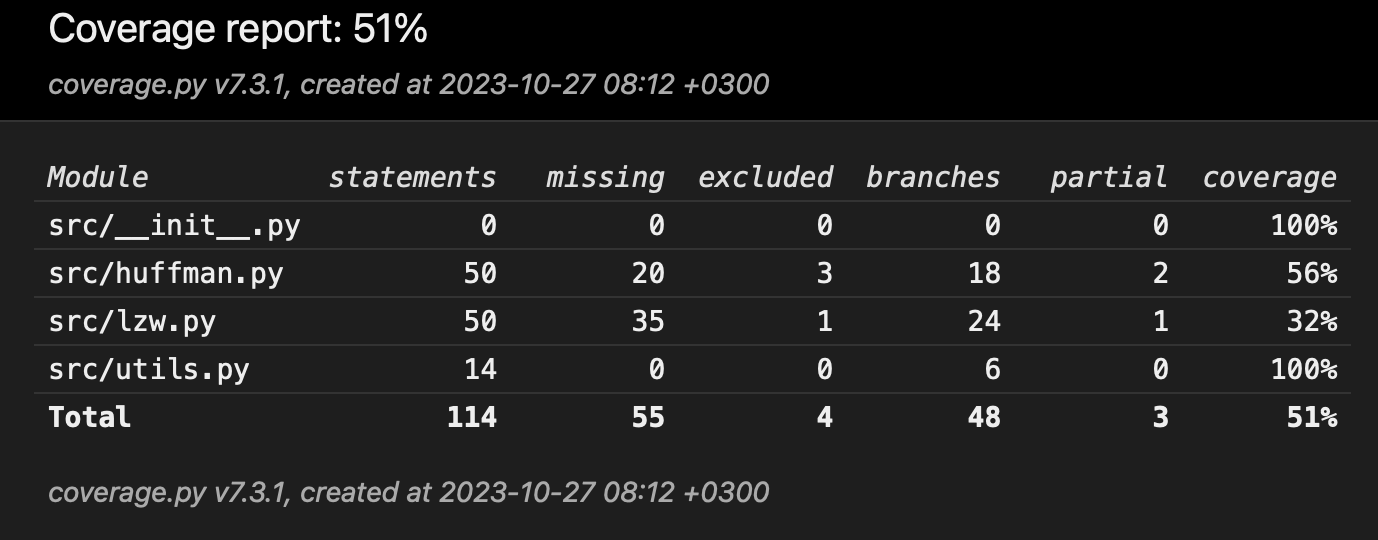
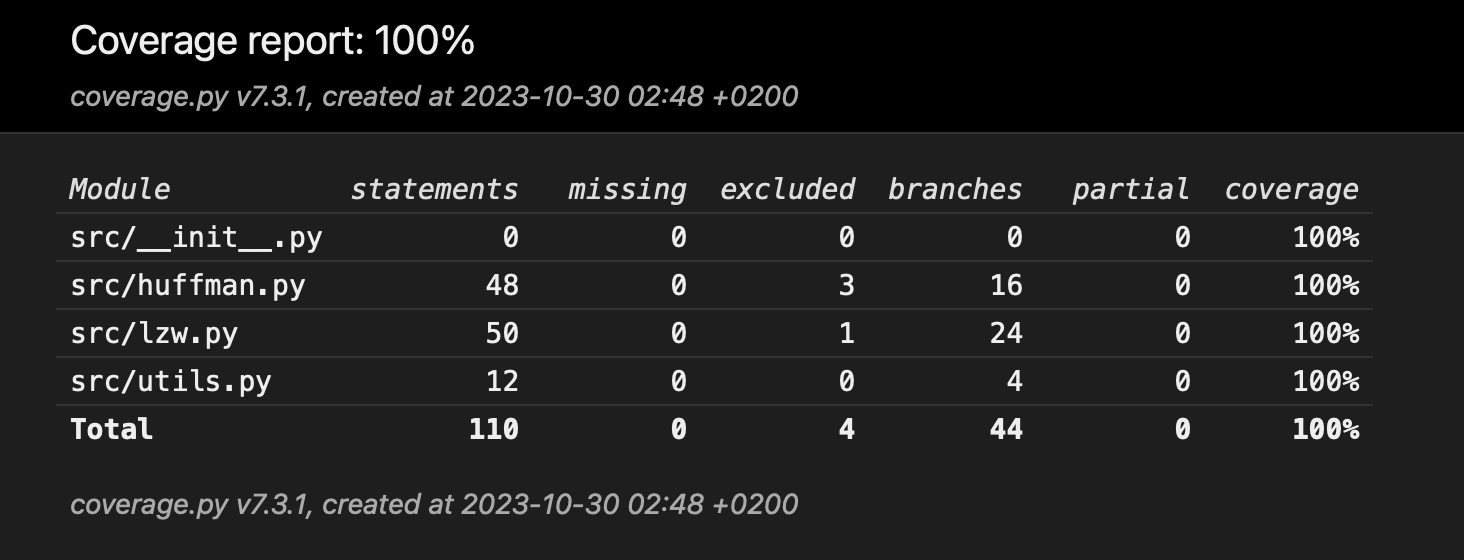
Remove coverage from flask (clitching), put test reports to testing.md

diff --git a/templates/index.html b/templates/index.html
@@ -29,7 +29,7 @@
             Huffman Integrity: {{ 'Ok' if results.huffman_integrity else 'Fail' }} <br>
             LZW Integrity: {{ 'Ok' if results.lzw_integrity else 'Fail' }} <br>
             <br>
-            <b>Efficiency</b> <br>
+            <b>Efficiency (percentage by which the original size has been reduced after compression)</b> <br>
             Huffman Efficiency: {{ results.huffman_efficiency }} <br>
             LZW Efficiency: {{ results.lzw_efficiency }} <br>
             <b>File Sizes (bytes)</b> <br>
@@ -39,8 +39,5 @@
         </div>
     {% endif %}
     <br>
-    <div>
-        <iframe src="/coverage" width="400px""></iframe>
-    </div>
 </body>
 </html>

diff --git a/routes.py b/routes.py
@@ -1,10 +1,8 @@
 import os
-import unittest
 from os.path import getsize
 
 from flask import (
-    render_template, request, session, redirect,
-    url_for, send_from_directory
+    render_template, request, session, redirect, url_for
 )
 
 from src.huffman import huffman_compress, huffman_decompress
@@ -14,7 +12,7 @@ from src.utils import calculate_efficiency
 ASSETS_FOLDER = 'assets'
 
 
-def register_routes(app, cov):
+def register_routes(app):
     app.config['ASSETS_FOLDER'] = ASSETS_FOLDER
 
     @app.route('/')
@@ -101,17 +99,3 @@ def register_routes(app, cov):
                 error = f"Error occurred: {str(e)}"
 
         return render_template('index.html', error=error, results=results)
-
-    @app.route('/coverage')
-    def test_coverage_route():
-        # Run unit tests
-        test_loader = unittest.TestLoader()
-        test_suite = test_loader.discover('tests')
-        test_runner = unittest.TextTestRunner()
-        test_runner.run(test_suite)
-
-        # Generate test coverage report
-        cov.stop()
-        cov.save()
-        cov.html_report()
-        return send_from_directory('htmlcov', 'index.html')

diff --git a/app.py b/app.py
@@ -1,19 +1,11 @@
 from flask import Flask
 from routes import register_routes
 
-import coverage
-
 
 app = Flask(__name__)
 app.config['SECRET_KEY'] = 'secret_key_this_is_not_safe_for_production'
 
-cov = coverage.Coverage(
-    source=["src"],
-    omit=["*/routes.py", "*/app.py", "*/templates/*", "*/tests/*"]
-)
-cov.start()
-
-register_routes(app, cov)
+register_routes(app)
 
 if __name__ == '__main__':
     app.run(debug=True)

diff --git a/documentation/testing.md b/documentation/testing.md
@@ -1,6 +1,8 @@
 ## Unit tests
 
-Unit tests have been implemeneted using Python's unittest unit testing framework. Test coverage and branch coverage has been implemented using Python's coverage package. Test coverage can be found on the front page of the application when you run it. I have only written tests for the files that relate to the algorithms. I have not written tests for files that relate to the UI. Current test coverage is 39% and branch coverage is 51%.
+Test and branch coverage stands at 100%.
+
+Unit tests have been implemeneted using Python's unittest unit testing framework. Test coverage and branch coverage has been implemented using Python's coverage package. I have only written tests for the files that relate to the algorithms. I have not written tests for files that relate to the UI.
 
 Unit tests and test coverage can be ran from terminal with commands
 

diff --git a/documentation/week_6_report.md b/documentation/week_6_report.md
@@ -1,6 +1,6 @@
 This week I started by changing the implementation to handle larger files than those that can be saved into session. This is done by saving the uploaded and compressed files into assets folder. Refactored LZW based on code review suggestions. Started to write more unit tests, but test coverage is still substandard.
 
-Next week need to update  LZW commentary and increase the test coverage. Otherwise I believe the implementation is working now as intended and is following so called "clean code" standards.
+Next week need to update LZW commentary and increase the test coverage. Otherwise I believe the implementation is working now as intended and is following so called "clean code" standards.
 
 Need to also update the readme to include instructions on how to run the tests sperately.
 

diff --git a/README.md b/README.md
@@ -18,6 +18,8 @@ pip install -r requirements.txt
 flask run
 ```
 
+Please note that this program does not handle error cases from unexpected user behaviour. For example, the program assumes that the uploaded file is not empty.
+
 ## Documentation
 
 ### [Project specification](documentation/specification.md)
@@ -31,4 +33,5 @@ flask run
 * [Weekly report #3](documentation/week_3_report.md)
 * [Weekly report #4](documentation/week_4_report.md)
 * [Weekly report #5](documentation/week_5_report.md)
-* [Weekly report #6](documentation/week_5_report.md)
+* [Weekly report #6](documentation/week_6_report.md)
+* [Final report](documentation/final_report.md)

diff --git a/documentation/final_report.md b/documentation/final_report.md
@@ -1,0 +1,3 @@
+To finalise the project I wrote tests to achieve 100% test and branch coverage, refactored the code overall and enhanced the commentary. I also wrote all the required documentation for final submissions and ran performance tests to review the compression efficiency with varying size inputs. 
+
+## Hours: 28
